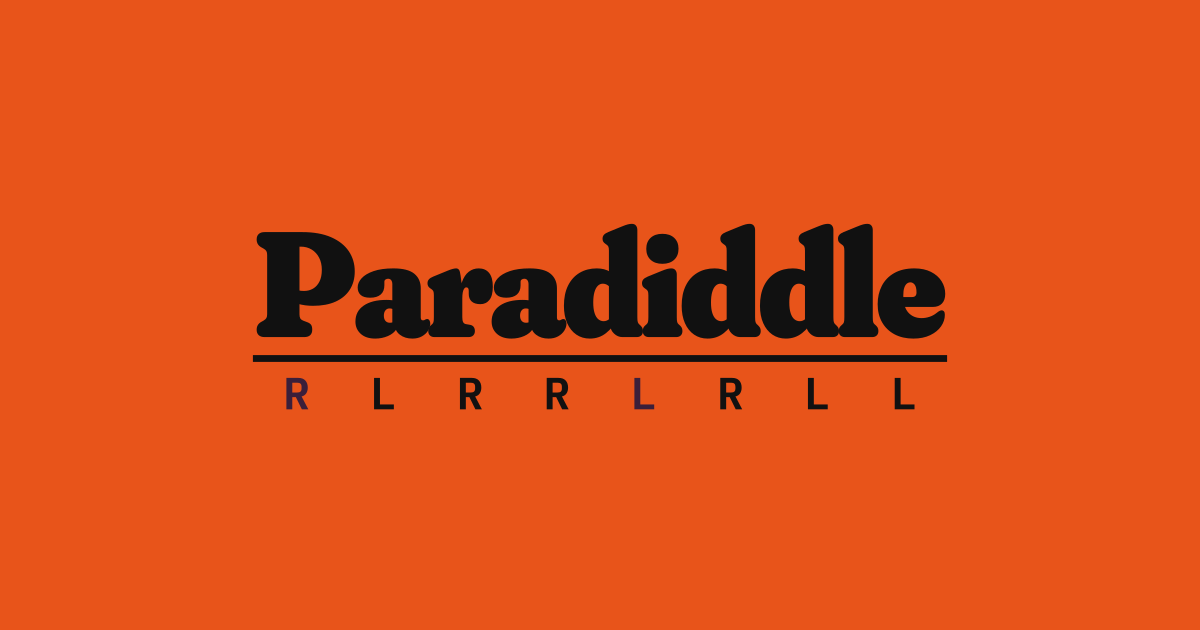
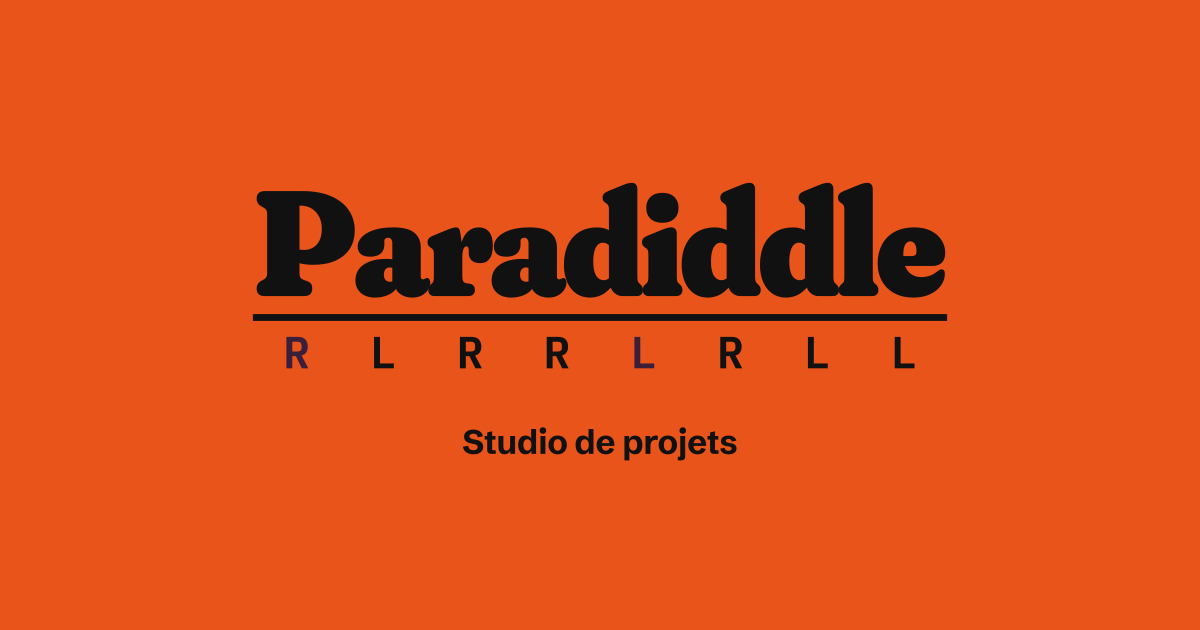
Image de partage : signature Studio de projets
Claude-Session: https://claude.ai/code/session_01BLnAgTWFHsGTDW4dwBqLML

Changed region(s): [[0.2158, 0.2714, 0.8017, 0.7238], [0.6783, 0.6333, 0.7092, 0.6635]]

diff --git a/index.html b/index.html
@@ -11,7 +11,7 @@
 <meta property="og:image" content="https://paradiddle.fr/og-image.png">
 <meta property="og:image:width" content="1200">
 <meta property="og:image:height" content="630">
-<meta property="og:image:alt" content="Logo Paradiddle sur fond orange">
+<meta property="og:image:alt" content="Paradiddle, studio de projets">
 <meta name="twitter:card" content="summary_large_image">
 <meta property="og:url" content="https://paradiddle.fr/">
 <meta name="theme-color" content="#FFFFFF">
